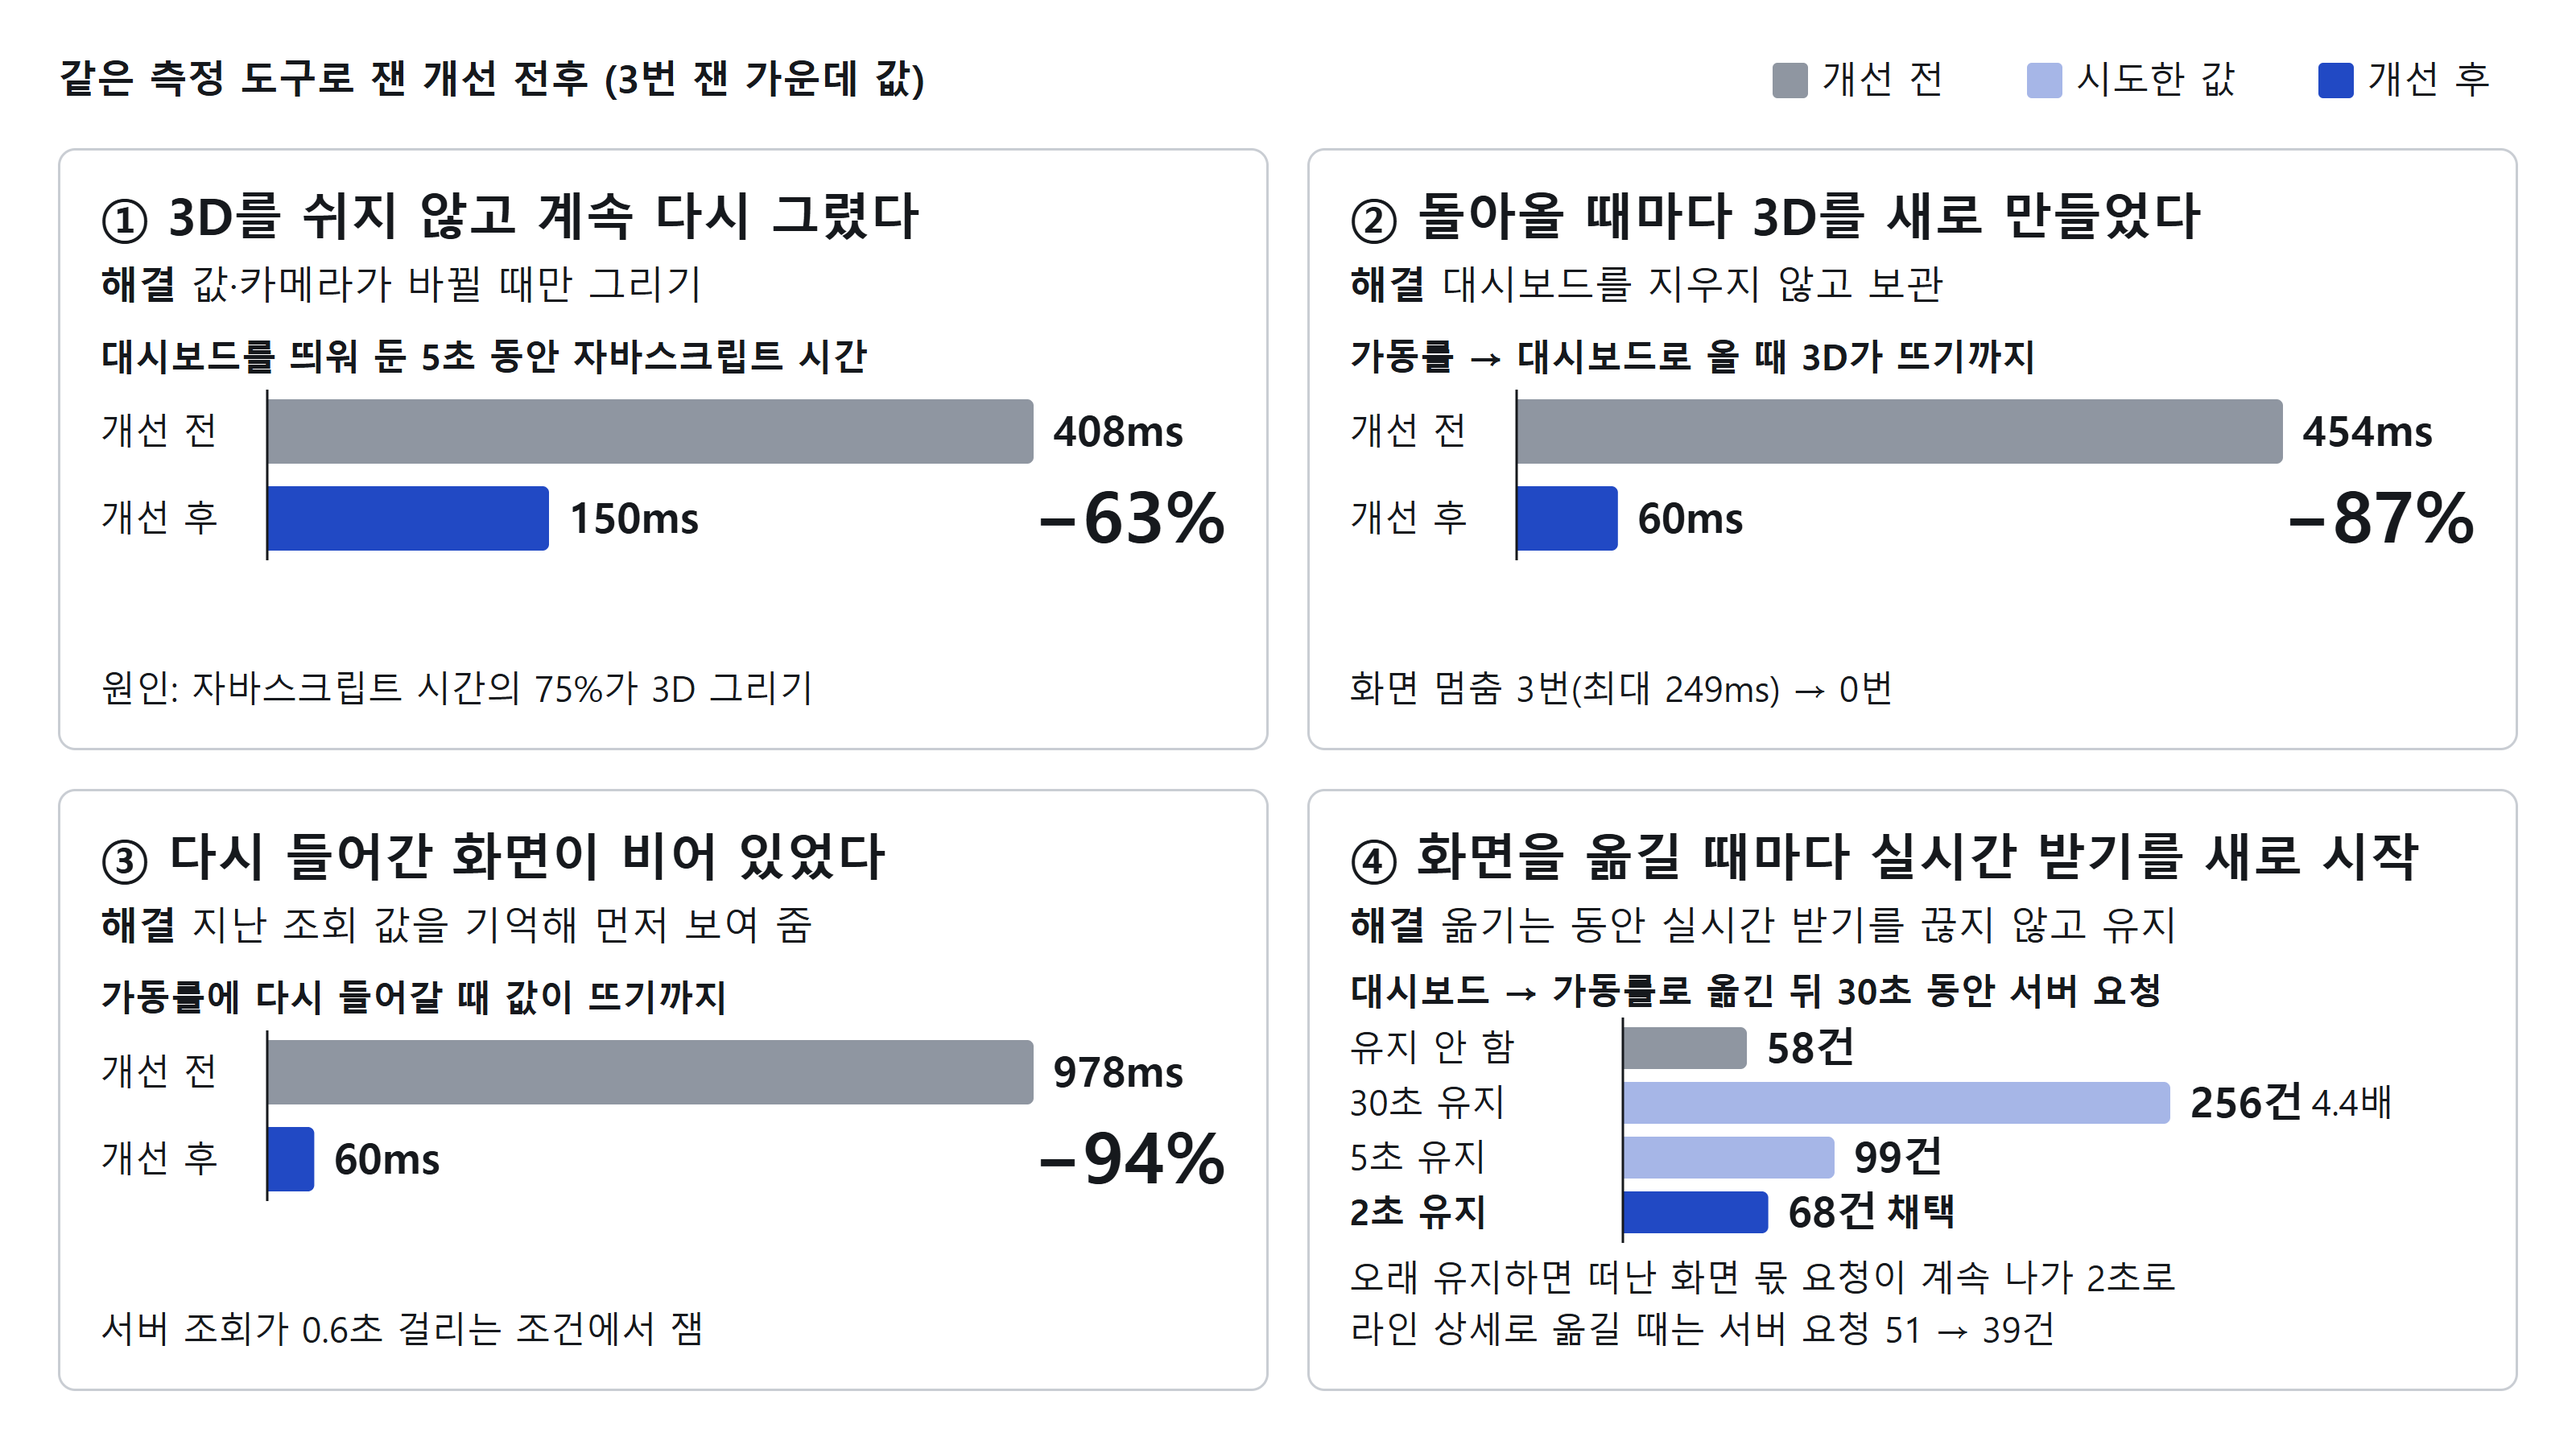
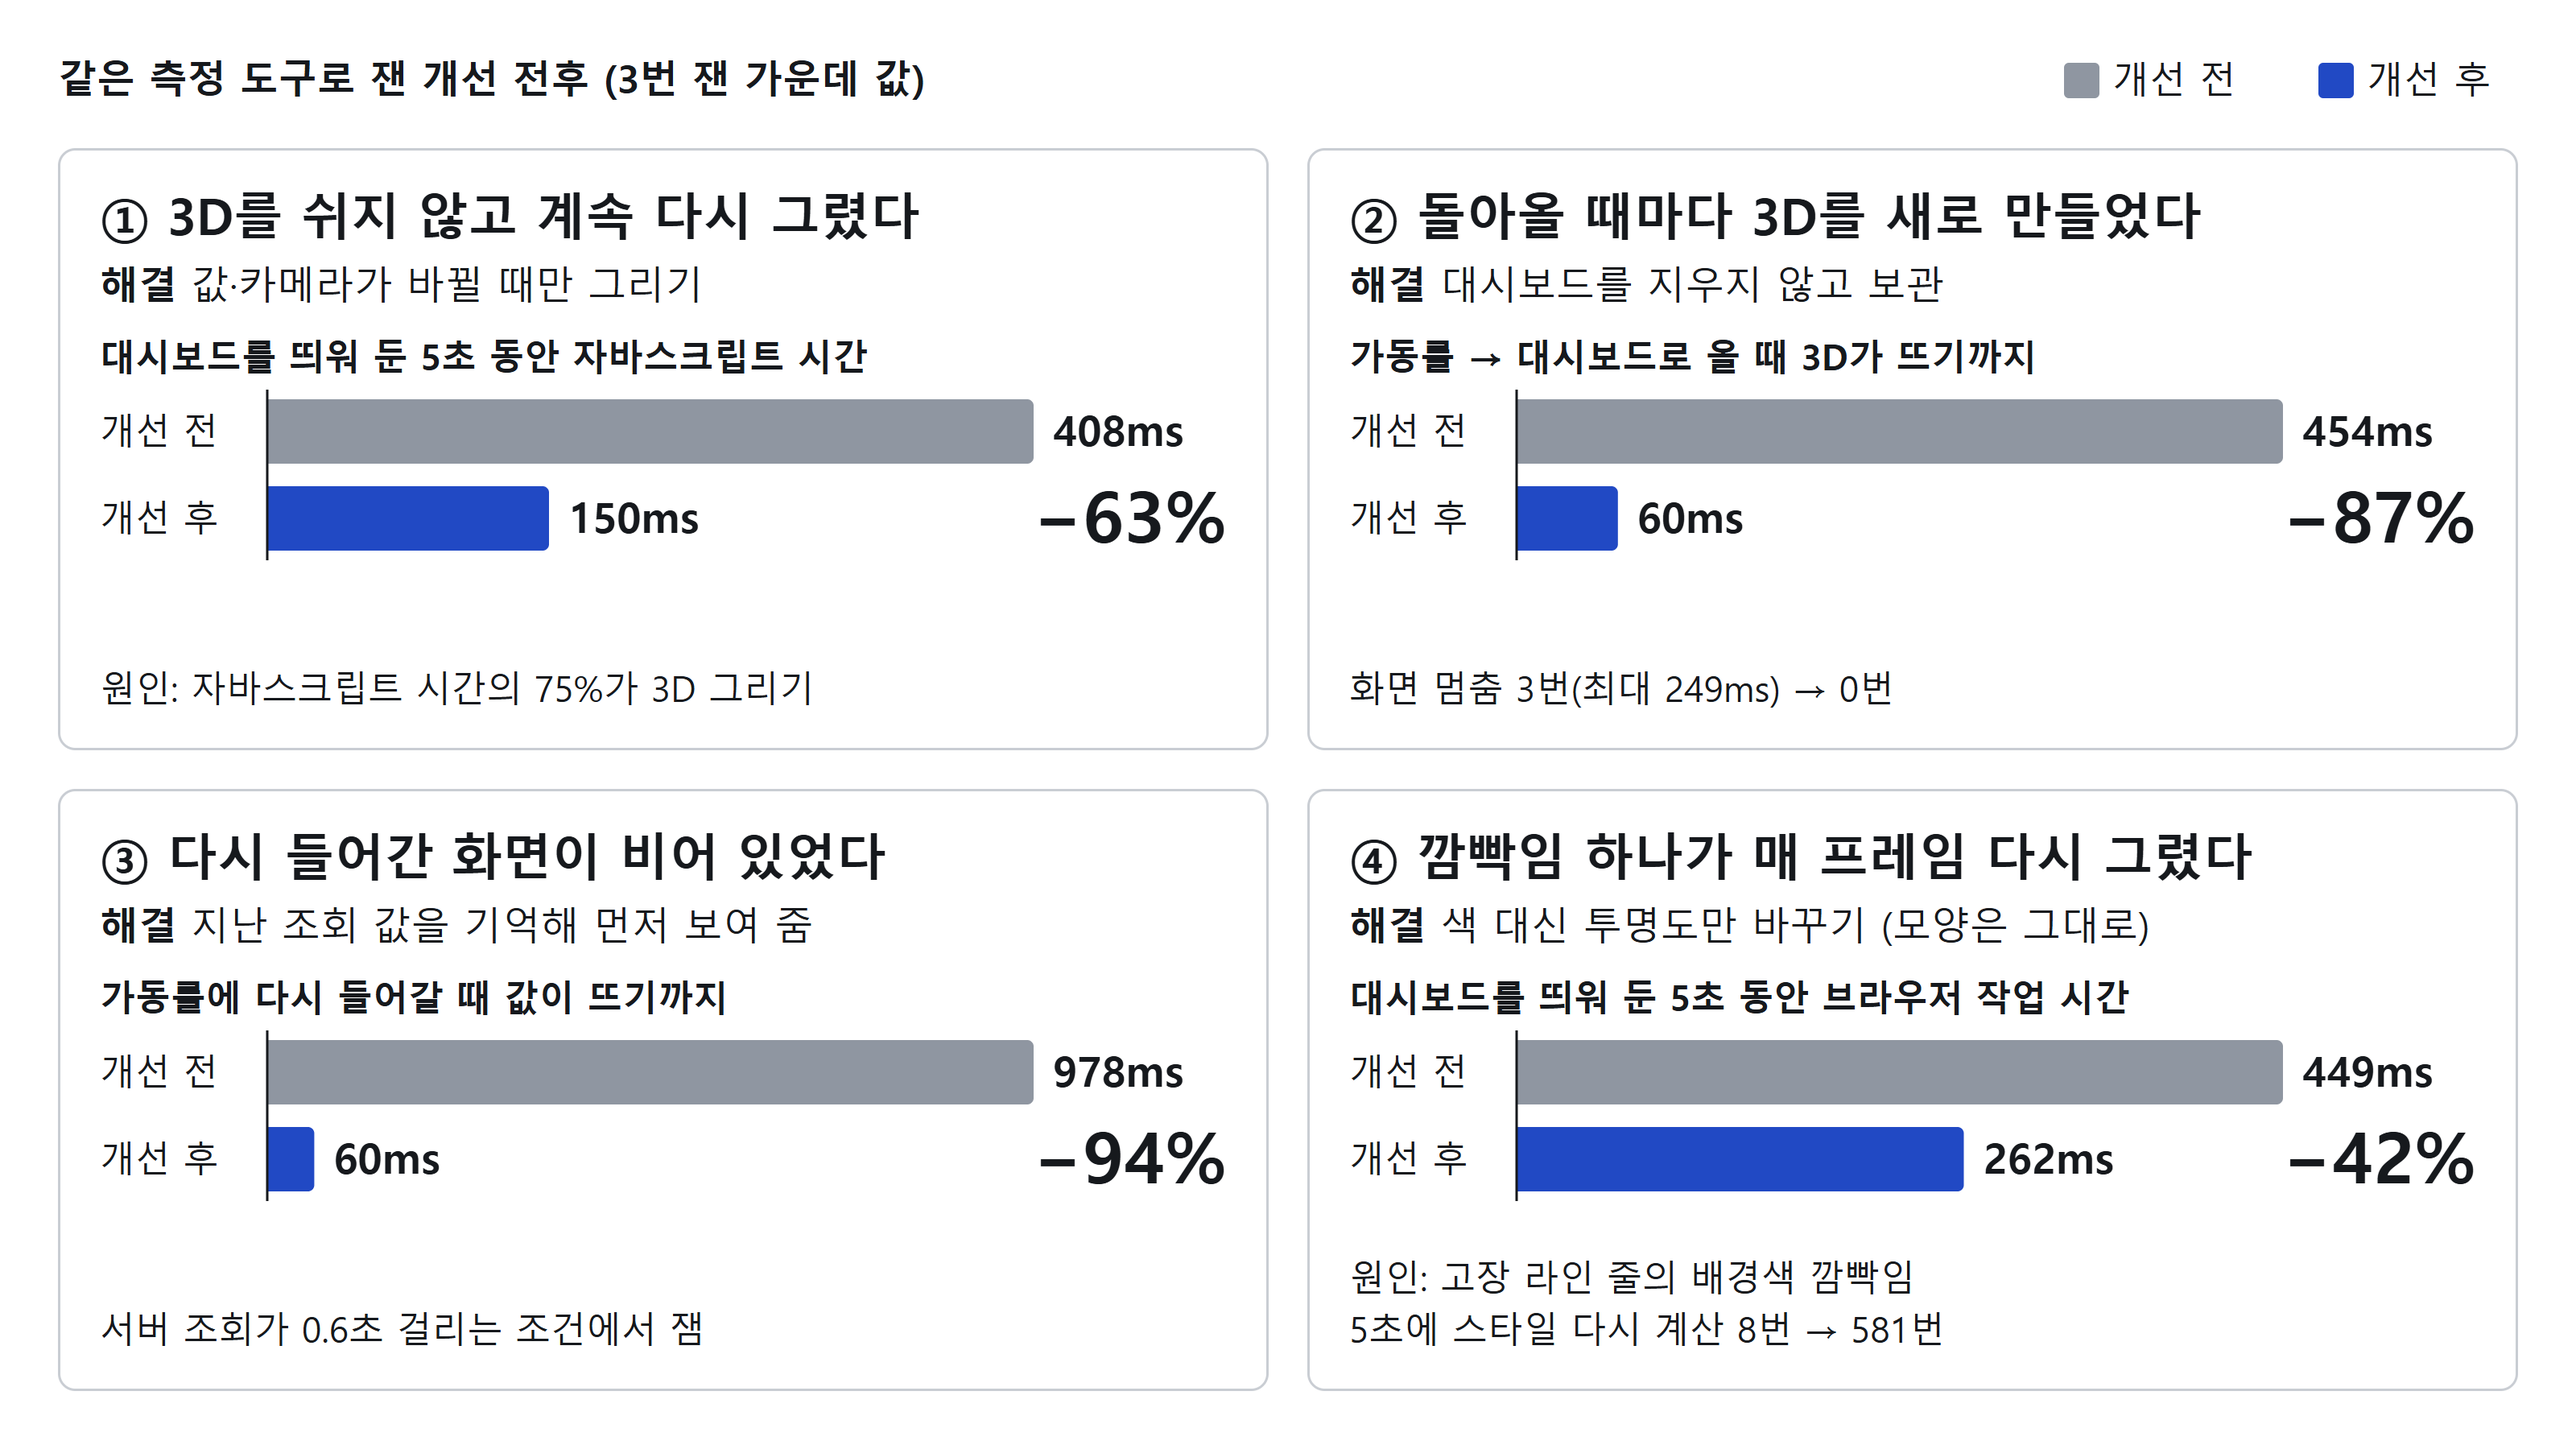
성능 검토 문서: 합친 뒤 다시 잰 결과(깜빡임을 투명도로)를 발표 자료에 반영

Changed region(s): [[0.5312, 0.56, 0.9688, 0.9333], [0.7812, 0.0311, 0.875, 0.0933], [0.6875, 0.0311, 0.75, 0.0622]]

diff --git a/docs/10_성능검토.md b/docs/10_성능검토.md
@@ -178,10 +178,10 @@
 | 값은 1초에 한 번 바뀌는데 3D를 초당 60번 다시 그림 (CPU 프로필: 자바스크립트의 약 75%가 3D 그리기) | 바뀔 때만 그리기, 그림자·재질 공유 | 띄워 둔 5초의 자바스크립트 시간 408 → 150ms (−63%) |
 | 대시보드에 올 때마다 3D를 새로 만듦 | 대시보드 보관(KeepAlive), 떠나 있으면 3D 멈춤 | 3D가 뜨기까지 454 → 60ms, 화면 멈춤 3번 → 0번 |
 | 다시 들어간 화면이 빈 값에서 시작 | 조회 값 기억, 지난 값을 먼저 보임 | 값이 뜨기까지 978 → 60ms (−94%) |
-| 화면을 옮길 때마다 실시간 받기(구독)를 끊고 새로 시작 | 옮기는 동안 실시간 받기를 2초 끊지 않고 유지 | 라인 상세로 옮길 때 서버 요청 51 → 39건 |
+| 팀원 작업을 합친 뒤 고장 라인 줄 깜빡임이 배경색을 계속 바꿔 매 프레임 다시 그림 (5초에 스타일 다시 계산 8 → 581번) | 빨간 면을 깔고 투명도만 바꾸기 (모양은 그대로) | 띄워 둔 5초의 브라우저 작업 시간 449 → 262ms (−42%) |
 
-**고친 것이 새 문제를 만들었다** 실시간 받기를 30초 유지하게 했더니 대시보드를 떠난 뒤 30초 동안 요청이 58 → 256건(4.4배)으로 늘었다. Playwright로 만든 측정 도구로 30초·5초·2초를 같은 조건에서 재서 2초로 정했다 (68건). 고친 뒤에도 같은 도구로 다시 재야 부작용이 보인다.
+**합친 뒤에도 다시 쟀다** 팀원 작업을 합친 뒤 같은 도구로 다시 재니 자바스크립트는 그대로인데 브라우저 작업 시간만 늘어 있었다. 스타일 계산·배치·그리기로 나눠 재서 깜빡임 하나를 찾았다. 기능을 더할 때마다 다시 재야 성능이 지켜진다. (실시간 받기 유지 시간을 30초 → 2초로 바로잡은 이야기는 5장)
 
 **남은 것** 대시보드를 띄워 둔 10초 동안 요청 79건은 그대로다. 오늘 요약을 한 번에 주는 API나 웹소켓이 있어야 줄어든다 (백엔드 요청).
 
-![성능 개선 전후: ① 3D 그리기 408→150ms ② 대시보드로 돌아올 때 454→60ms ③ 다시 들어간 화면 978→60ms ④ 실시간 받기 유지 시간별, 대시보드에서 가동률로 옮긴 뒤 30초 동안 서버 요청 수 58·256·99·68건](perf/발표_트러블슈팅.png)
+![성능 개선 전후: ① 3D 그리기 408→150ms ② 대시보드로 돌아올 때 454→60ms ③ 다시 들어간 화면 978→60ms ④ 깜빡임을 투명도로 바꿔 브라우저 작업 449→262ms](perf/발표_트러블슈팅.png)
